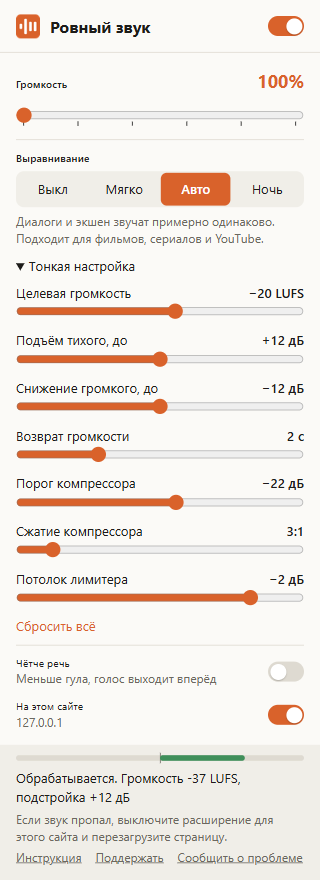
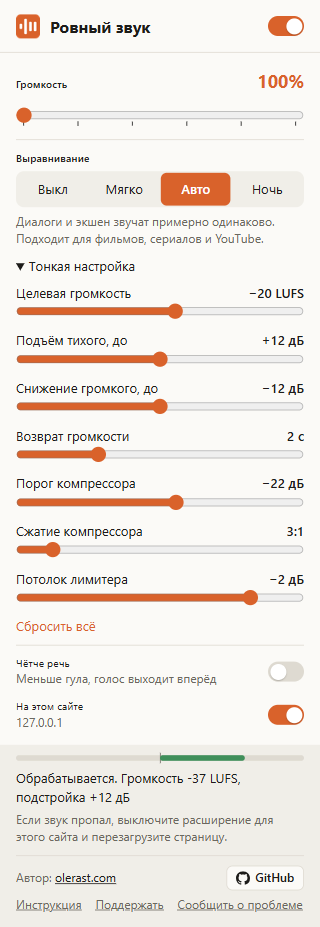
1.2.1: author link and GitHub button in the popup

Changed region(s): [[0.0312, 0.0, 0.9688, 0.9818], [0.1562, 0.0, 0.4688, 0.0614], [0.0625, 0.0, 0.125, 0.0614]]

diff --git a/src/popup/popup.html b/src/popup/popup.html
@@ -62,6 +62,13 @@
     <p id="status"></p>
     <button type="button" id="capture" class="link" hidden></button>
     <p class="hint" data-i18n="statusReload"></p>
+    <div class="credits">
+      <span><span data-i18n="author"></span> <a href="https://olerast.com" target="_blank" rel="noopener">olerast.com</a></span>
+      <a class="github" href="https://github.com/olerast67/steady-volume" target="_blank" rel="noopener">
+        <svg viewBox="0 0 16 16" width="14" height="14" aria-hidden="true"><path fill="currentColor" d="M8 0C3.58 0 0 3.58 0 8c0 3.54 2.29 6.53 5.47 7.59.4.07.55-.17.55-.38 0-.19-.01-.82-.01-1.49-2.01.37-2.53-.49-2.69-.94-.09-.23-.48-.94-.82-1.13-.28-.15-.68-.52-.01-.53.63-.01 1.08.58 1.23.82.72 1.21 1.87.87 2.33.66.07-.52.28-.87.51-1.07-1.78-.2-3.64-.89-3.64-3.95 0-.87.31-1.59.82-2.15-.08-.2-.36-1.02.08-2.12 0 0 .67-.21 2.2.82.64-.18 1.32-.27 2-.27.68 0 1.36.09 2 .27 1.53-1.04 2.2-.82 2.2-.82.44 1.1.16 1.92.08 2.12.51.56.82 1.27.82 2.15 0 3.07-1.87 3.75-3.65 3.95.29.25.54.73.54 1.48 0 1.07-.01 1.93-.01 2.2 0 .21.15.46.55.38A8.013 8.013 0 0016 8c0-4.42-3.58-8-8-8z"/></svg>
+        GitHub
+      </a>
+    </div>
     <nav>
       <a href="https://github.com/olerast67/steady-volume#readme" target="_blank" rel="noopener" data-i18n="help"></a>
       <a href="https://github.com/olerast67/steady-volume/blob/main/DONATE.md" target="_blank" rel="noopener" data-i18n="donate"></a>

diff --git a/src/popup/popup.css b/src/popup/popup.css
@@ -144,3 +144,28 @@ button.link:hover { text-decoration: underline; }
 footer nav { display: flex; flex-wrap: wrap; gap: 4px 14px; margin-top: 4px; }
 output, #status { unicode-bidi: plaintext; }
 output { direction: ltr; unicode-bidi: isolate; }
+
+.credits {
+  display: flex;
+  justify-content: space-between;
+  align-items: center;
+  gap: 8px;
+  margin: 10px 0 6px;
+  padding-top: 10px;
+  border-top: 1px solid var(--line);
+  color: var(--muted);
+  font-size: 12px;
+}
+.credits a { color: var(--text); font-size: 12px; }
+a.github {
+  display: inline-flex;
+  align-items: center;
+  gap: 5px;
+  padding: 3px 9px;
+  border: 1px solid var(--line);
+  border-radius: 6px;
+  background: var(--bg);
+  text-decoration: none;
+  font-weight: 600;
+}
+a.github:hover { border-color: var(--muted); }

diff --git a/scripts/locales.py b/scripts/locales.py
@@ -14,6 +14,7 @@ LOCALES = ROOT / "src" / "_locales"
 T = {}
 
 T["de"] = {
+    "author": "Autor:",
     "extName": "Steady Volume: Lautstärke-Booster und Ausgleich",
     "extShortName": "Steady Volume",
     "extDescription": "Macht leise Videos bis zu 600 % lauter und gleicht die Lautstärke aus: Dialoge lauter, Explosionen leiser. Auf jeder Website.",
@@ -54,6 +55,7 @@ T["de"] = {
 }
 
 T["es"] = {
+    "author": "Autor:",
     "extName": "Steady Volume: amplificador y nivelador de volumen",
     "extShortName": "Steady Volume",
     "extDescription": "Sube el volumen de vídeos bajos hasta un 600 % y lo nivela: diálogos más altos, explosiones más bajas. Funciona en cualquier web.",
@@ -94,6 +96,7 @@ T["es"] = {
 }
 
 T["fr"] = {
+    "author": "Auteur :",
     "extName": "Steady Volume : amplificateur et égaliseur de volume",
     "extShortName": "Steady Volume",
     "extDescription": "Augmente le son des vidéos trop faibles jusqu'à 600 % et égalise le volume : dialogues plus forts, explosions plus douces.",
@@ -134,6 +137,7 @@ T["fr"] = {
 }
 
 T["it"] = {
+    "author": "Autore:",
     "extName": "Steady Volume: amplificatore e livellatore del volume",
     "extShortName": "Steady Volume",
     "extDescription": "Alza i video troppo bassi fino al 600% e livella il volume: dialoghi più forti, esplosioni più basse. Funziona su ogni sito.",
@@ -174,6 +178,7 @@ T["it"] = {
 }
 
 T["pt_BR"] = {
+    "author": "Autor:",
     "extName": "Steady Volume: amplificador e nivelador de volume",
     "extShortName": "Steady Volume",
     "extDescription": "Aumenta o volume de vídeos baixos em até 600% e nivela o som: diálogos mais altos, explosões mais baixas. Em qualquer site.",
@@ -214,6 +219,7 @@ T["pt_BR"] = {
 }
 
 T["pl"] = {
+    "author": "Autor:",
     "extName": "Steady Volume: wzmacniacz i wyrównywacz głośności",
     "extShortName": "Steady Volume",
     "extDescription": "Podgłaśnia ciche filmy do 600% i wyrównuje głośność: dialogi głośniej, wybuchy ciszej. Działa na każdej stronie.",
@@ -254,6 +260,7 @@ T["pl"] = {
 }
 
 T["tr"] = {
+    "author": "Geliştirici:",
     "extName": "Steady Volume: ses yükseltici ve ses dengeleyici",
     "extShortName": "Steady Volume",
     "extDescription": "Sessiz videoları %600'e kadar yükseltir ve sesi dengeler: diyaloglar daha yüksek, patlamalar daha alçak. Her sitede çalışır.",
@@ -294,6 +301,7 @@ T["tr"] = {
 }
 
 T["uk"] = {
+    "author": "Автор:",
     "extName": "Steady Volume: підсилювач і вирівнювач гучності",
     "extShortName": "Steady Volume",
     "extDescription": "Підсилює тихі відео до 600% і вирівнює гучність: діалоги гучніші, вибухи тихіші. Працює на будь-якому сайті.",
@@ -334,6 +342,7 @@ T["uk"] = {
 }
 
 T["ja"] = {
+    "author": "作者：",
     "extName": "Steady Volume: 音量ブースター＆音量平準化",
     "extShortName": "Steady Volume",
     "extDescription": "小さい動画の音量を最大600%まで上げ、音量を自動で揃えます。セリフは大きく、爆発音は小さく。どのサイトでも使えます。",
@@ -374,6 +383,7 @@ T["ja"] = {
 }
 
 T["ko"] = {
+    "author": "제작자:",
     "extName": "Steady Volume: 볼륨 부스터 및 음량 평준화",
     "extShortName": "Steady Volume",
     "extDescription": "작은 영상 소리를 최대 600%까지 키우고 음량을 고르게 맞춥니다. 대사는 크게, 폭발음은 작게. 모든 사이트에서 작동합니다.",
@@ -414,6 +424,7 @@ T["ko"] = {
 }
 
 T["zh_CN"] = {
+    "author": "作者：",
     "extName": "Steady Volume：音量增强与音量均衡",
     "extShortName": "Steady Volume",
     "extDescription": "将声音过小的视频音量提高至 600%，并自动均衡音量：对白更响，爆炸声更轻。适用于任何网站。",
@@ -454,6 +465,7 @@ T["zh_CN"] = {
 }
 
 T["zh_TW"] = {
+    "author": "作者：",
     "extName": "Steady Volume：音量增強與音量平衡",
     "extShortName": "Steady Volume",
     "extDescription": "將聲音太小的影片音量提高至 600%，並自動平衡音量：對白更大聲，爆炸聲更小聲。適用於任何網站。",
@@ -494,6 +506,7 @@ T["zh_TW"] = {
 }
 
 T["id"] = {
+    "author": "Pembuat:",
     "extName": "Steady Volume: penguat dan penyeimbang volume",
     "extShortName": "Steady Volume",
     "extDescription": "Menaikkan suara video yang pelan hingga 600% dan menyeimbangkan volume: dialog lebih keras, ledakan lebih pelan. Di semua situs.",
@@ -534,6 +547,7 @@ T["id"] = {
 }
 
 T["vi"] = {
+    "author": "Tác giả:",
     "extName": "Steady Volume: tăng âm lượng và cân bằng âm lượng",
     "extShortName": "Steady Volume",
     "extDescription": "Tăng âm lượng video nhỏ tiếng lên đến 600% và cân bằng âm lượng: lời thoại to hơn, tiếng nổ nhỏ hơn. Dùng trên mọi trang web.",
@@ -574,6 +588,7 @@ T["vi"] = {
 }
 
 T["hi"] = {
+    "author": "निर्माता:",
     "extName": "Steady Volume: वॉल्यूम बूस्टर और लेवलर",
     "extShortName": "Steady Volume",
     "extDescription": "धीमी आवाज़ वाले वीडियो को 600% तक तेज़ करता है और आवाज़ बराबर रखता है: संवाद तेज़, धमाके धीमे। हर साइट पर काम करता है।",
@@ -614,6 +629,7 @@ T["hi"] = {
 }
 
 T["ar"] = {
+    "author": "المطوّر:",
     "extName": "Steady Volume: مضخم الصوت وموازن مستوى الصوت",
     "extShortName": "Steady Volume",
     "extDescription": "يرفع صوت الفيديوهات المنخفضة حتى 600% ويوازن مستوى الصوت: حوار أعلى وانفجارات أخفض. يعمل على أي موقع.",

diff --git a/CHANGELOG.md b/CHANGELOG.md
@@ -1,5 +1,10 @@
 # Changelog / История изменений
 
+## 1.2.1 (2026-10-10)
+
+- The popup shows the author (olerast.com) and a GitHub button; the extension details page links to the repository.
+- В окне расширения появились автор (olerast.com) и кнопка GitHub, на странице расширения в браузере есть ссылка на репозиторий.
+
 ## 1.2.0 (2026-10-10)
 
 - The popup is translated into 18 languages; the store name and description follow the browser language.
